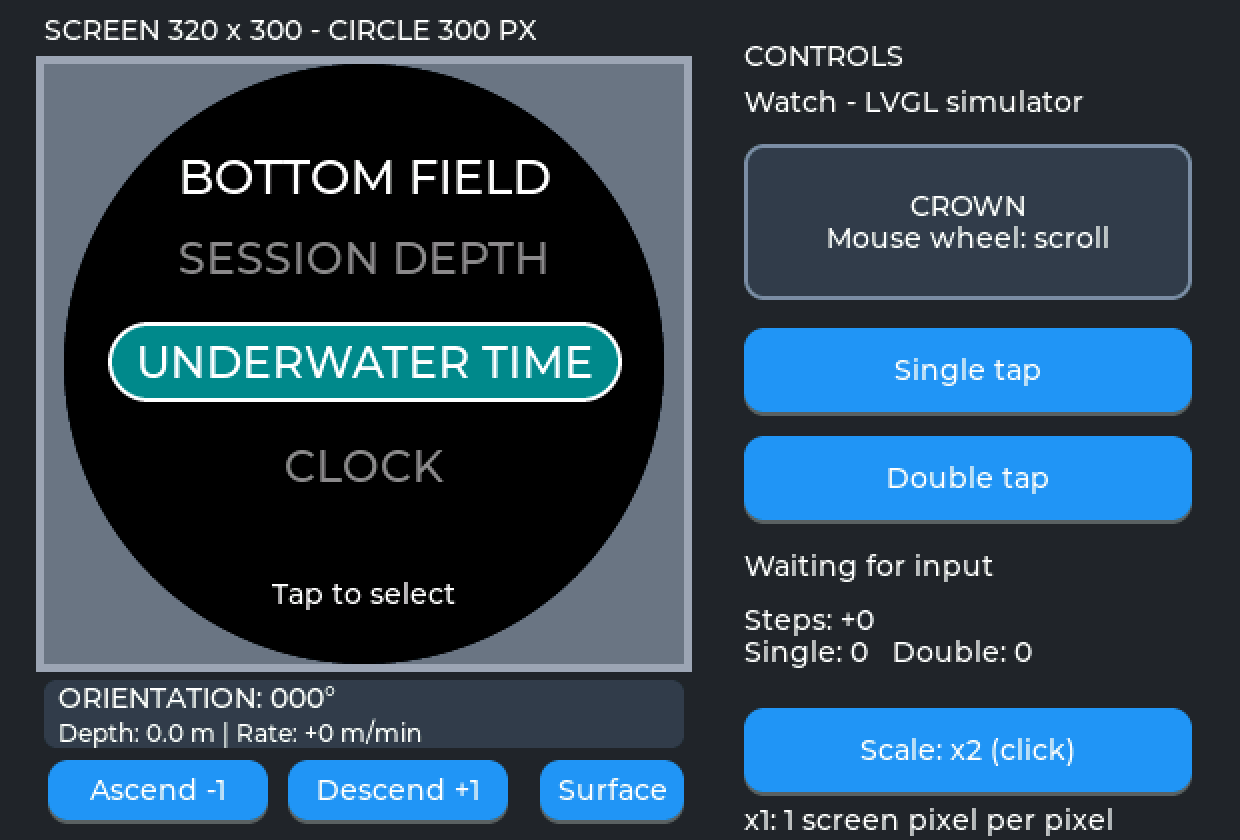
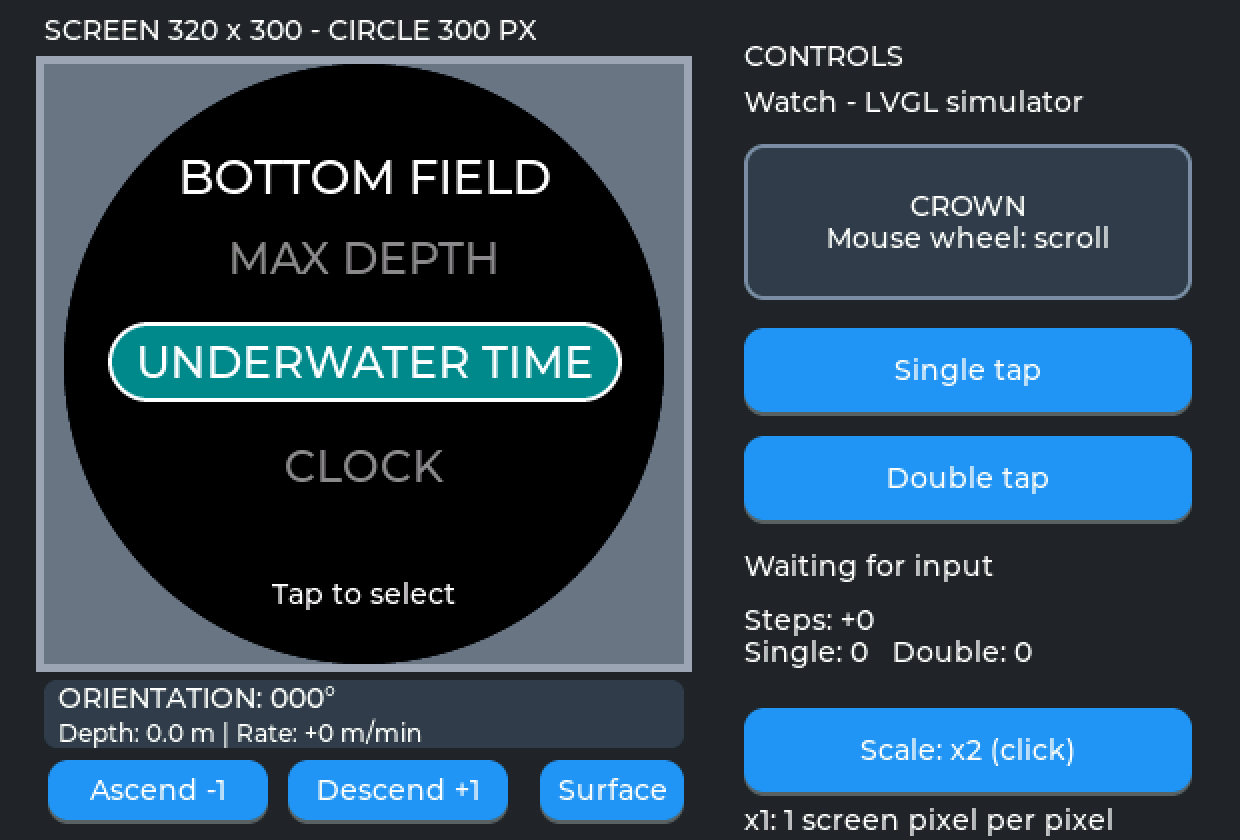
Use dive labels and minutes-seconds cumulative time

Changed region(s): [[0.1226, 0.2786, 0.4597, 0.3405]]

diff --git a/V2/Firmware/simulator/src/apnea_settings_checks.c b/V2/Firmware/simulator/src/apnea_settings_checks.c
@@ -18,7 +18,7 @@ static void field_bounds(lv_obj_t *o)
  if(!lv_obj_is_visible(o))return;
  if(lv_obj_check_type(o,&lv_label_class)){
   const char *s=lv_label_get_text(o);
-  if(!strcmp(s,"TEMPERATURE")||!strcmp(s,"SESSION DEPTH")||!strcmp(s,"UNDERWATER TIME")){
+  if(!strcmp(s,"TEMPERATURE")||!strcmp(s,"MAX DEPTH")||!strcmp(s,"UNDERWATER TIME")){
    lv_area_t a;lv_obj_get_coords(o,&a);__ASSERT(a.x1>=0&&a.x2<320,"Bottom field label %s clipped horizontally %d..%d at step%u",s,a.x1,a.x2,step);
   }
  }
@@ -72,19 +72,19 @@ void apnea_settings_checks_observe(const struct watch_data *data)
 {
  switch(step){
  case 1:expect("TEMPERATURE");break;
- case 3:expect("UNDERWATER TIME");expect("0:00:00");break;
- case 5:expect("SESSION DEPTH");expect("--");break;
- case 7:expect("SESSION DEPTH");expect("12.3 m");break;
+ case 3:expect("UNDERWATER TIME");expect("0:00");break;
+ case 5:expect("MAX DEPTH");expect("--");break;
+ case 7:expect("MAX DEPTH");expect("12.3 m");break;
  case 9:expect("12.3");__ASSERT(data->max_dive_s==60,"Live record missing");break;
- case 11:expect("SESSION DEPTH");expect("12.3 m");break;
- case 13:expect("UNDERWATER TIME");expect("0:01:01");break;
+ case 11:expect("MAX DEPTH");expect("12.3 m");break;
+ case 13:expect("UNDERWATER TIME");expect("1:01");break;
  case 15:expect("UNDERWATER TIME");break;
  case 17:__ASSERT(watch_ui_salt_water(),"Marine confirmation failed");break;
  case 22:__ASSERT(watch_ui_salt_water(),"Editor applied after descent");expect("UNDERWATER TIME");break;
- case 24:expect("UNDERWATER TIME");expect("0:02:11");__ASSERT(watch_ui_salt_water(),"Underwater settings modified water");break;
- case 26:expect("0:02:12");break;
+ case 24:expect("UNDERWATER TIME");expect("2:11");__ASSERT(watch_ui_salt_water(),"Underwater settings modified water");break;
+ case 26:expect("2:12");break;
  case 31:expect("UNDERWATER TIME");__ASSERT(data->total_dives==3,"Settings reset count");break;
- case 35:expect("UNDERWATER TIME");expect("0:00:00");__ASSERT(watch_ui_salt_water()&&data->total_dives==0,"Reentry lost preferences or retained session");break;
+ case 35:expect("UNDERWATER TIME");expect("0:00");__ASSERT(watch_ui_salt_water()&&data->total_dives==0,"Reentry lost preferences or retained session");break;
  case 38:{expect("UNDERWATER TIME");char path[512];snprintf(path,sizeof(path),"%s/settings-reentry-x2.bmp",sim_host_gallery_path());lv_refr_now(NULL);__ASSERT(sim_host_capture(path)==0,"Capture");break;}
  }
  lv_obj_update_layout(lv_screen_active());if(step%2)field_bounds(lv_screen_active());

diff --git a/V2/Firmware/simulator/src/apnea_checks.c b/V2/Firmware/simulator/src/apnea_checks.c
@@ -108,7 +108,7 @@ void apnea_checks_observe(const struct watch_data *data)
     case 17:expect("100.0");expect("10:00");__ASSERT(data->max_dive_s==600,"Live duration record stale");capture("apnea-17-long-x1");break;
     case 20:expect("100.0");expect("10:01");capture("apnea-20-long-x2");break;
     case 25:expect("--");__ASSERT(data->runtime_s==1&&data->total_dives==0&&data->max_depth_dm==0&&!data->show_recovery,"Re-entry retained session");capture("apnea-25-reentry");printk("APNEA MAIN PASS: thresholds, direction, live records, 119/120/130/661 s recovery, page continuity, two apneas, exit/re-entry and x1/x2 renders\n");break;
-    case 27:expect("LONGEST APNEA");expect("APNEAS");expect("SESSION TIME");expect("--");expect("0");expect("0:00:03");capture("stats-01-fresh");break;
+    case 27:expect("MAX TIME");expect("DIVES");expect("SESSION TIME");expect("--");expect("0");expect("0:00:03");capture("stats-01-fresh");break;
     case 29:expect("20.0");expect("0:10");expect("1");expect("0:00:14");capture("stats-02-live");break;
     case 30:expect("20.0");expect("0:20");expect("0:00:24");capture("stats-03-recovery");break;
     case 31:__ASSERT(data->show_recovery&&data->recovery_s==1,"Statistics reset recovery");break;
@@ -119,7 +119,7 @@ void apnea_checks_observe(const struct watch_data *data)
     case 46:expect("--");expect("0");expect("0:00:02");capture("stats-08-reentry");printk("APNEA STATISTICS PASS: initial placeholders, active records, recovery continuity, shorter second apnea, new live depth/time records, long timers, x1/x2 and re-entry\n");break;
     case 22:__ASSERT(watch_ui_view()==WATCH_MODE_MENU,"Leave control changed");break;
     }
-    if(step>=8&&step<=12){expect("LAST APNEA");expect("1:00");}
+    if(step>=8&&step<=12){expect("DIVE TIME");expect("1:00");}
     if((step>=8&&step<=12)||step==1||step==25) {
         __ASSERT(!visible_text(lv_screen_active(),"RECOVERY"),"Recovery timer caption visible");
     }

diff --git a/V2/Firmware/simulator/src/apnea_main.c b/V2/Firmware/simulator/src/apnea_main.c
@@ -60,7 +60,7 @@ void apnea_main_update(lv_obj_t *view,const struct watch_data *data)
     else snprintf(text,sizeof(text),"--");
     lv_obj_set_style_text_font(m->left,peak>=1000?&lv_font_montserrat_28:&lv_font_montserrat_34,0);
     centred(m->left,text,101,157);
-    centred(m->time_title,data->apnea_active?"APNEA TIME":"LAST APNEA",219,127);
+    centred(m->time_title,"DIVE TIME",219,127);
     uint32_t seconds=data->elapsed_s;
     if(data->apnea_active||data->show_recovery)
         snprintf(text,sizeof(text),"%u:%02u",seconds/60,seconds%60);
@@ -68,7 +68,7 @@ void apnea_main_update(lv_obj_t *view,const struct watch_data *data)
     lv_obj_set_style_text_font(m->time,seconds>=6000?&lv_font_montserrat_22:&lv_font_montserrat_34,0);
     centred(m->time,text,219,157);
     enum apnea_bottom_field field=apnea_settings_bottom_field();
-    static const char *const captions[]={"TEMPERATURE","SESSION DEPTH","UNDERWATER TIME","CLOCK","APNEAS"};
+    static const char *const captions[]={"TEMPERATURE","MAX DEPTH","UNDERWATER TIME","CLOCK","DIVES"};
     centred(m->bottom_title,captions[field],160,219);
     switch(field) {
     case APNEA_SESSION_DEPTH:
@@ -77,7 +77,7 @@ void apnea_main_update(lv_obj_t *view,const struct watch_data *data)
         break;
     case APNEA_SESSION_TIME:
         seconds=data->total_underwater_s;
-        snprintf(text,sizeof(text),"%u:%02u:%02u",seconds/3600,seconds/60%60,seconds%60);break;
+        snprintf(text,sizeof(text),"%u:%02u",seconds/60,seconds%60);break;
     case APNEA_CLOCK:snprintf(text,sizeof(text),"%02u:%02u",data->clock_hour,data->clock_minute);break;
     case APNEA_DIVE_COUNT:snprintf(text,sizeof(text),"%u",data->total_dives);break;
     default:snprintf(text,sizeof(text),"%d°C",data->temperature_c);break;

diff --git a/V2/Firmware/simulator/src/apnea_persistence_checks.c b/V2/Firmware/simulator/src/apnea_persistence_checks.c
@@ -27,9 +27,9 @@ static void capture(const char *name)
  char path[512];snprintf(path,sizeof(path),"%s/%s.bmp",sim_host_gallery_path(),name);
  lv_refr_now(NULL);__ASSERT(!sim_host_capture(path),"Persistence capture failed");
 }
-static const char *caption(int field){static const char *const names[]={"TEMPERATURE","SESSION DEPTH","UNDERWATER TIME","CLOCK","APNEAS"};return names[field];}
-static void fresh_value(int field,const struct watch_data *data){char value[32];if(field==3){snprintf(value,sizeof(value),"%02u:%02u",data->clock_hour,data->clock_minute);expect(value);}else expect(field==1?"--":field==2?"0:00:00":field==4?"0":"18°C");}
-static void live_value(int field,const struct watch_data *data){char value[32];if(field==3){snprintf(value,sizeof(value),"%02u:%02u",data->clock_hour,data->clock_minute);expect(value);}else expect(field==1?"12.3 m":field==2?"0:01:00":field==4?"1":"18°C");}
+static const char *caption(int field){static const char *const names[]={"TEMPERATURE","MAX DEPTH","UNDERWATER TIME","CLOCK","DIVES"};return names[field];}
+static void fresh_value(int field,const struct watch_data *data){char value[32];if(field==3){snprintf(value,sizeof(value),"%02u:%02u",data->clock_hour,data->clock_minute);expect(value);}else expect(field==1?"--":field==2?"0:00":field==4?"0":"18°C");}
+static void live_value(int field,const struct watch_data *data){char value[32];if(field==3){snprintf(value,sizeof(value),"%02u:%02u",data->clock_hour,data->clock_minute);expect(value);}else expect(field==1?"12.3 m":field==2?"1:00":field==4?"1":"18°C");}
 bool apnea_persistence_checks_inputs(uint64_t *sample_ms)
 {
  int mode=sim_host_apnea_persistence_mode();if(!mode)return false;

diff --git a/V2/Firmware/simulator/src/apnea_stats.c b/V2/Firmware/simulator/src/apnea_stats.c
@@ -22,9 +22,9 @@ lv_obj_t *apnea_stats_create(lv_obj_t *parent)
     lv_obj_set_user_data(view,s);lv_obj_add_event_cb(view,deleted,LV_EVENT_DELETE,s);
     s->depth=label(view,&watch_montserrat_60,"--",160,47);
     s->unit=label(view,&lv_font_montserrat_18,"m",0,0);
-    label(view,&lv_font_montserrat_12,"LONGEST APNEA",101,127);
+    label(view,&lv_font_montserrat_12,"MAX TIME",101,127);
     s->longest=label(view,&lv_font_montserrat_34,"--",101,157);
-    label(view,&lv_font_montserrat_12,"APNEAS",219,127);
+    label(view,&lv_font_montserrat_12,"DIVES",219,127);
     s->count=label(view,&lv_font_montserrat_34,"0",219,157);
     label(view,&lv_font_montserrat_12,"SESSION TIME",160,219);
     s->runtime=label(view,&lv_font_montserrat_34,"0:00:00",160,239);

diff --git a/V2/Firmware/simulator/src/apnea_settings.c b/V2/Firmware/simulator/src/apnea_settings.c
@@ -7,7 +7,7 @@ static lv_obj_t *view,*heading,*pill,*rows[APNEA_BOTTOM_COUNT],*icons[2],*help,*
 static bool salt_water,underwater,engaged;
 static enum apnea_bottom_field bottom;
 static int entry,pending,editor;
-static const char *const fields[]={"TEMPERATURE","SESSION DEPTH","UNDERWATER TIME","CLOCK","APNEAS"};
+static const char *const fields[]={"TEMPERATURE","MAX DEPTH","UNDERWATER TIME","CLOCK","DIVES"};
 static void row_y(void *o,int32_t y){lv_obj_set_y(o,y);}
 static void refresh(bool animate)
 {

diff --git a/V2/Firmware/simulator/README.md b/V2/Firmware/simulator/README.md
@@ -57,7 +57,8 @@ and haptics are previews; they do not drive physical hardware.
 blocks, cyan separators, selected bottom field and battery header. During an apnea,
 read its maximum depth and duration; at the surface, read the last apnea's maximum
 depth. Five grey centre dashes match the inactive scuba indicator exactly.
-The right block shows the frozen duration of the last apnea in surface mode
+DIVE TIME shows the current duration underwater. At the surface,
+the right block shows the frozen duration of the last apnea in surface mode
 (or -- before the first apnea); recovery is shown only by the
 twice-duration ring, which turns green at its target and hides ten
 seconds later. Entering freediving starts a fresh session, including surface time;
@@ -66,9 +67,9 @@ records update during the current apnea. Statistics uses the same geometry with 
 maximum depth, longest apnea, apnea count and elapsed session time (H:MM:SS).
 It has no direction indicator or recovery ring. The page sequence is Main →
 Statistics → Settings → Leave. Settings groups Water Type (Fresh/Marine) and
-Bottom Field (Temperature/Session Depth/Underwater Time/Clock/Apneas).
+Bottom Field (Temperature/Max Depth/Underwater Time/Clock/Dives).
 Underwater Time sums every apnea in the session, including the active one,
-excludes surface pauses and uses H:MM:SS. Clock shows the current HH:MM.
+excludes surface pauses and uses total minutes and seconds (M:SS), without an hour field. Clock shows the current HH:MM.
 Count and underwater time start at zero; session depth starts as a placeholder. Rotation is bounded;
 tap opens or confirms and double tap cancels. Changes are surface-only, including
 confirmation of an editor opened before immersion. The applied choices survive
